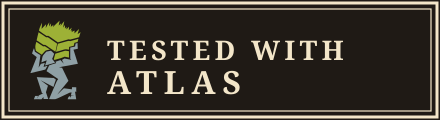
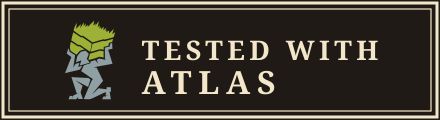
docs: balance the plaque and flat badges, fix README wording
The plaque's mark and text sat flush against the left frame, leaving the
right third of the badge empty; center the whole group instead. The
classic flat badge's mark was white on the olive chip, about 2.2:1; use
the same dark ink the wordmark already uses on that chip. Round the flat
badge's width to a whole pixel so the SVG, PNG and README width attribute
all agree. Drop the URW font name from the README's fontconfig fallback
list, since generate.py never asks for it.

Changed region(s): [[0.0591, 0.175, 0.8568, 0.85]]

diff --git a/docs/assets/badges/generate.py b/docs/assets/badges/generate.py
@@ -17,6 +17,7 @@ overwriting the existing badge files.
 
 from __future__ import annotations
 
+import functools
 import math
 import pathlib
 import re
@@ -46,7 +47,10 @@ PALETTES = {
     "classic": dict(
         bg="#F4F4EF", edge="#56676B", ink="#56676B", accent="#9DB136",
         label_bg="#56676B", label_fg="#FFFFFF",
-        msg_bg="#9DB136", msg_fg="#2B2B26", mark_fg="#FFFFFF",
+        # mark_fg matches msg_fg (dark ink), not white: white-on-olive was
+        # only about 2.2:1, the dark ink the same mark uses elsewhere reads
+        # far clearer on the same olive chip.
+        msg_bg="#9DB136", msg_fg="#2B2B26", mark_fg="#2B2B26",
         titan={"#56676B": "#56676B", "#9DB136": "#9DB136"},
     ),
     "dark": dict(
@@ -99,6 +103,26 @@ _PATHS_SIMPLE = _simplify_paths(_PATHS)
 def titan_width(height: float) -> float:
     _, _, bw, bh = _BOX
     return height * bw / bh
+
+
+@functools.lru_cache(maxsize=None)
+def text_width(text: str, size: float, weight: str = "700", spacing: float = 0,
+                font: str = FONT) -> float:
+    """The rendered width of one line, via inkscape's own layout (Pango).
+
+    Used only for centring layout math before the real <text> is written;
+    the glyphs themselves are still set (and later baked to paths) by the
+    normal text_el/textpath_el path, so this never affects what ships.
+    """
+    doc = (f'<svg xmlns="http://www.w3.org/2000/svg" width="1000" height="100">'
+           f'{text_el(0, 50, size, "#000", text, weight=weight, spacing=spacing, font=font).replace("<text ", "<text id=\"w\" ", 1)}'
+           f'</svg>')
+    with tempfile.TemporaryDirectory() as tmp:
+        svg = pathlib.Path(tmp) / "w.svg"
+        svg.write_text(doc)
+        out = subprocess.run(["inkscape", "--query-id=w", "--query-width", str(svg)],
+                              check=True, capture_output=True, text=True)
+    return float(out.stdout.strip())
 
 
 def titan_group(x: float, y: float, height: float, colors: dict[str, str] | str,
@@ -170,7 +194,7 @@ def build_flat(p: dict, uid: str) -> tuple[str, float, float]:
     pad = 6.0
     mark_w = titan_width(14)
     msg_w = pad + mark_w + 4 + msg_text_w + pad + 2
-    w = label_w + msg_w
+    w = round(label_w + msg_w)  # whole pixel: matches the rounded PNG width
     body = [
         f'<clipPath id="{uid}-clip"><rect width="{w:.2f}" height="{h}" rx="3"/></clipPath>',
         f'<g clip-path="url(#{uid}-clip)">',
@@ -190,7 +214,14 @@ def build_flat(p: dict, uid: str) -> tuple[str, float, float]:
 
 def build_plaque(p: dict, uid: str) -> tuple[str, float, float]:
     w, h = 220.0, 60.0
-    mark, mark_w = titan_group(14, h / 2 - 21, 42, p["titan"])
+    mark_w = titan_width(42)
+    gap = 12.0
+    text_w = max(text_width("TESTED WITH", 13.5, spacing=2.2),
+                 text_width("ATLAS", 16, spacing=3.4))
+    # Centre the mark+gap+text block as one group instead of pinning it to
+    # the left edge, which left about 40 px of empty ground on the right.
+    left = (w - (mark_w + gap + text_w)) / 2
+    mark, mark_w = titan_group(left, h / 2 - 21, 42, p["titan"])
     body = [
         f'<rect width="{w}" height="{h}" fill="{p["bg"]}"/>',
         f'<rect x="1.5" y="1.5" width="{w - 3}" height="{h - 3}" fill="none" '
@@ -198,8 +229,8 @@ def build_plaque(p: dict, uid: str) -> tuple[str, float, float]:
         f'<rect x="4.5" y="4.5" width="{w - 9}" height="{h - 9}" fill="none" '
         f'stroke="{p["edge"]}" stroke-width="0.6"/>',
         mark,
-        text_el(14 + mark_w + 12, 30, 13.5, p["ink"], "TESTED WITH", spacing=2.2),
-        text_el(14 + mark_w + 12, 47, 16, p["ink"], "ATLAS", weight="700", spacing=3.4),
+        text_el(left + mark_w + gap, 30, 13.5, p["ink"], "TESTED WITH", spacing=2.2),
+        text_el(left + mark_w + gap, 47, 16, p["ink"], "ATLAS", weight="700", spacing=3.4),
     ]
     return svg_doc(w, h, "".join(body)), w, h
 

diff --git a/docs/assets/badges/README.md b/docs/assets/badges/README.md
@@ -145,8 +145,8 @@ cost of the Atlas styling:
 Set in [Noto Serif](https://fonts.google.com/noto/specimen/Noto+Serif), under the SIL
 Open Font License. The wordmarks are baked into outline paths in the shipped `.svg`
 files, so viewing them needs no font installed. Regenerating the kit needs Noto Serif on
-the machine that runs `generate.py`; without it, the script falls back to whichever of
-DejaVu Serif, Liberation Serif or Nimbus Roman fontconfig resolves to.
+the machine that runs `generate.py`; without it, the script falls back to whatever serif
+fontconfig resolves to (DejaVu Serif or Liberation Serif, for example).
 
 ## Regenerating
 
